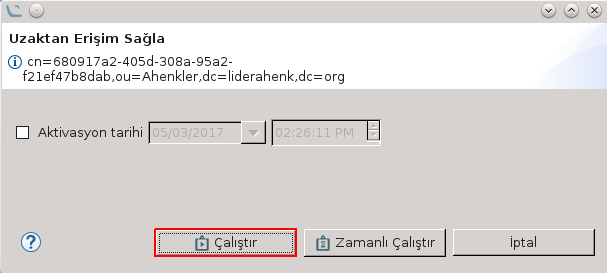
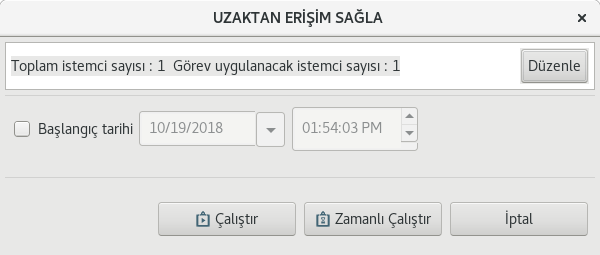
Update

diff --git a/1.1.0/eklentiler/remotecontrol.md b/1.1.0/eklentiler/remotecontrol.md
@@ -6,12 +6,20 @@ Uzaktan Erişim, bir görev eklentisidir. Uzaktan erişim yapılmak istenen Ahen
 
 ![Uzaktan Erişim - Ahenk İsteği](images/uzaktan-erisim.png)
 
-Bu butona basılmasıyla birlikte Ahenk makinesi üzerinde aşağıdaki uyarı ekranıyla karşılaşılır.
+Gönderilme onayı verilir;
+
+![Uzaktan Erişim - Ahenk İsteği](images/uzaktan-erisim-1.png)
+
+  Ahenk makinesi üzerinde aşağıdaki uyarı ekranıyla karşılaşılır.
 
 ![Uzaktan Erişim - Ahenk İsteği](images/uzaktan-erisim-ahenk.png)
 
-Belirtilen ip’ye makinenin Ahenk bilgisayarında bulunan VNC sunucusuna bağlanmak istediği söylenir ve Ahenk kullanıcısına bu bağlantıya izin verip vermediği sorulur. Ahenk kullanıcısının bu bağlantıya izin vermesi durumunda VNC sunucusuna bağlantı gerçekleşir.
+Belirtilen ip’ye makinenin Ahenk bilgisayarında bulunan VNC sunucusuna bağlanmak istediği söylenir ve Ahenk kullanıcısına bu bağlantıya izin verip vermediği sorulur. Ahenk kullanıcısının bu bağlantıya izin vermesi durumunda(**Yes**) VNC sunucusuna bağlantı gerçekleşir ve ahenk üzerinde tüm yetkilere sahip olur.
+**View** seçeneği tıklanırsa ahenk'e bağlantı verilir  bağlanan kişi makinede yapılanları görür fakat müdahale edemez. 
+İzinsiz bir erişim varsa **No** simgesine tıklanır.
 
 ![Im267](images/uzaktan-erisim-server.png)
 
 Bağlantı sonucunda Lider-Console kullanıcısının karışısında Ahenk makinesinin masaüstü açılacaktır. Bu ekran sayesinde Ahenk makinesi üzerinde sanki o makineyi kullanıyormuşçasına istenilen değişiklikler yapılabilir, makinenin o anki durumu görülebilir ve makine üzerindeki işlemler görsel olarak yürütülebilir.
+
+Bağlantı ile ilgili diğer VNC yetenekleri ekranın üst kısmındadır. Bağlantı kapatılırken bu üst kısımdaki seçenek ile çıkış yapılmalıdır.
